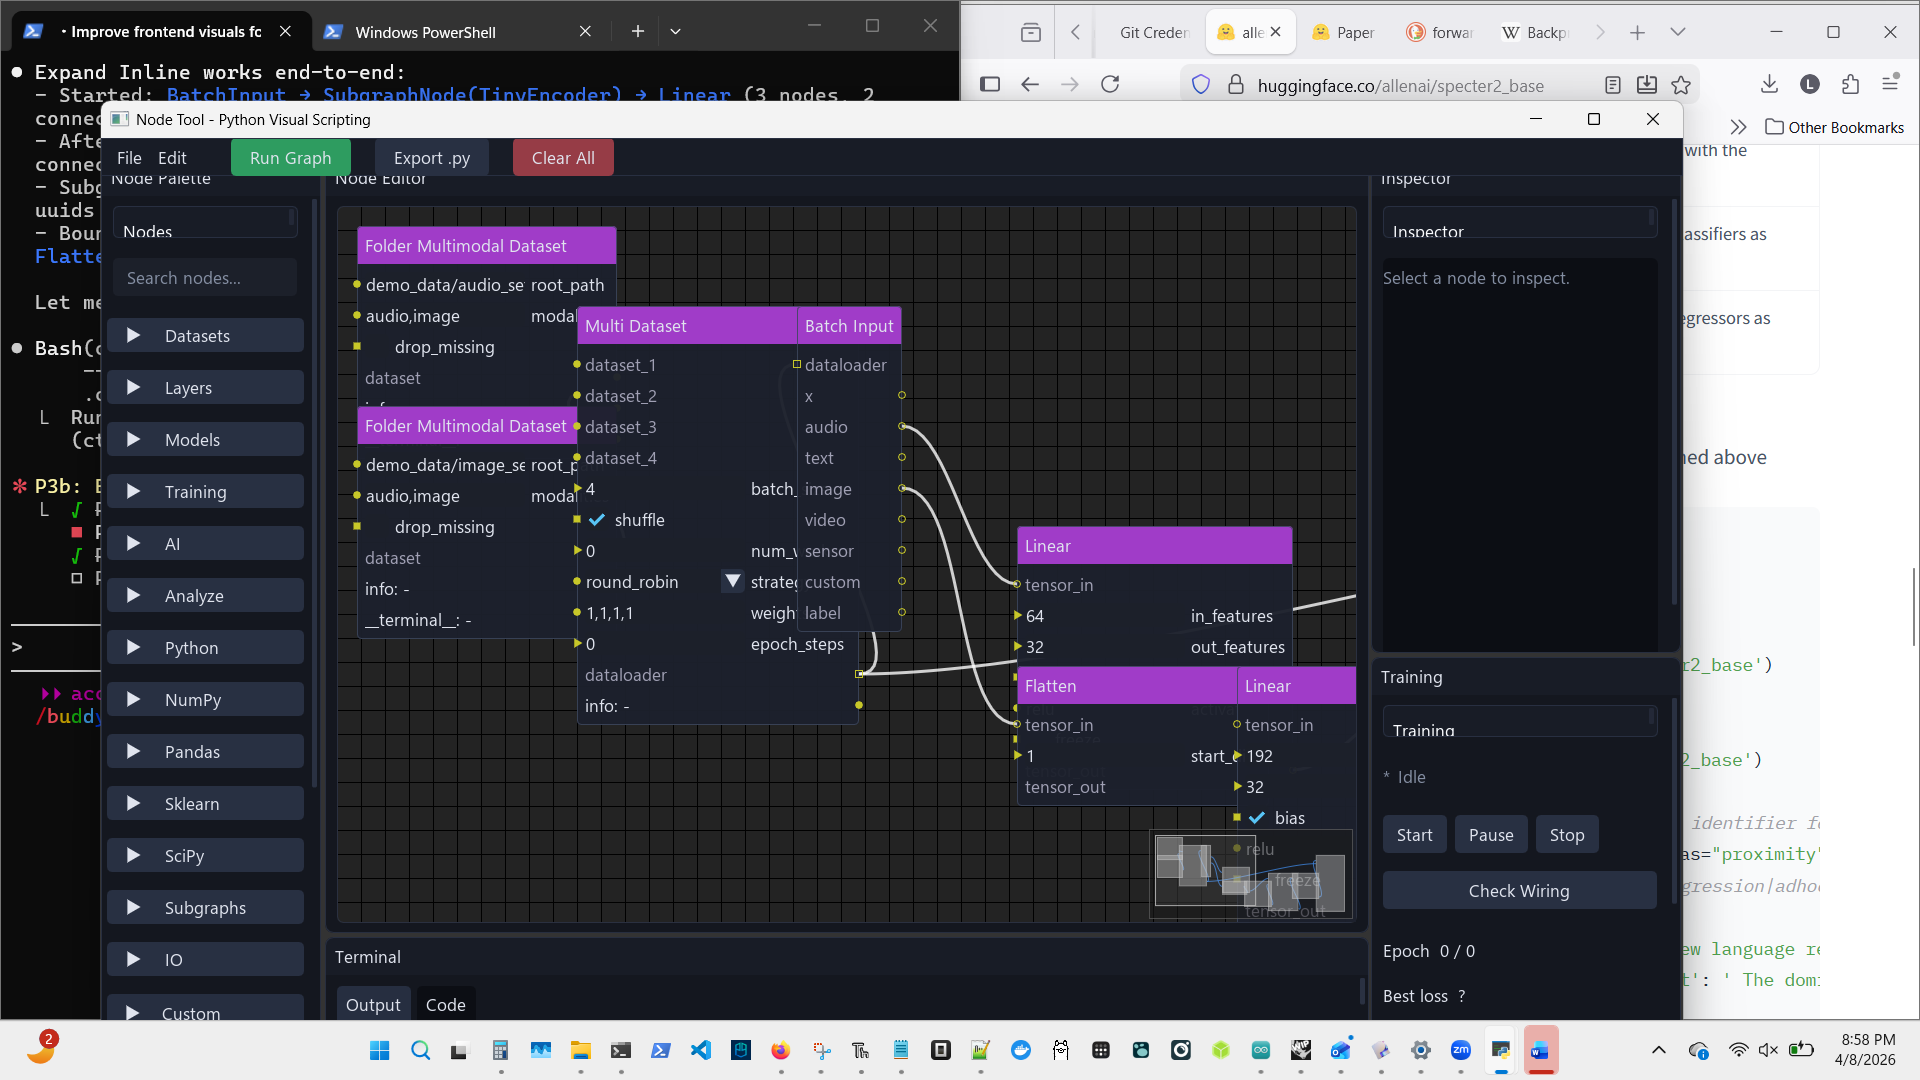
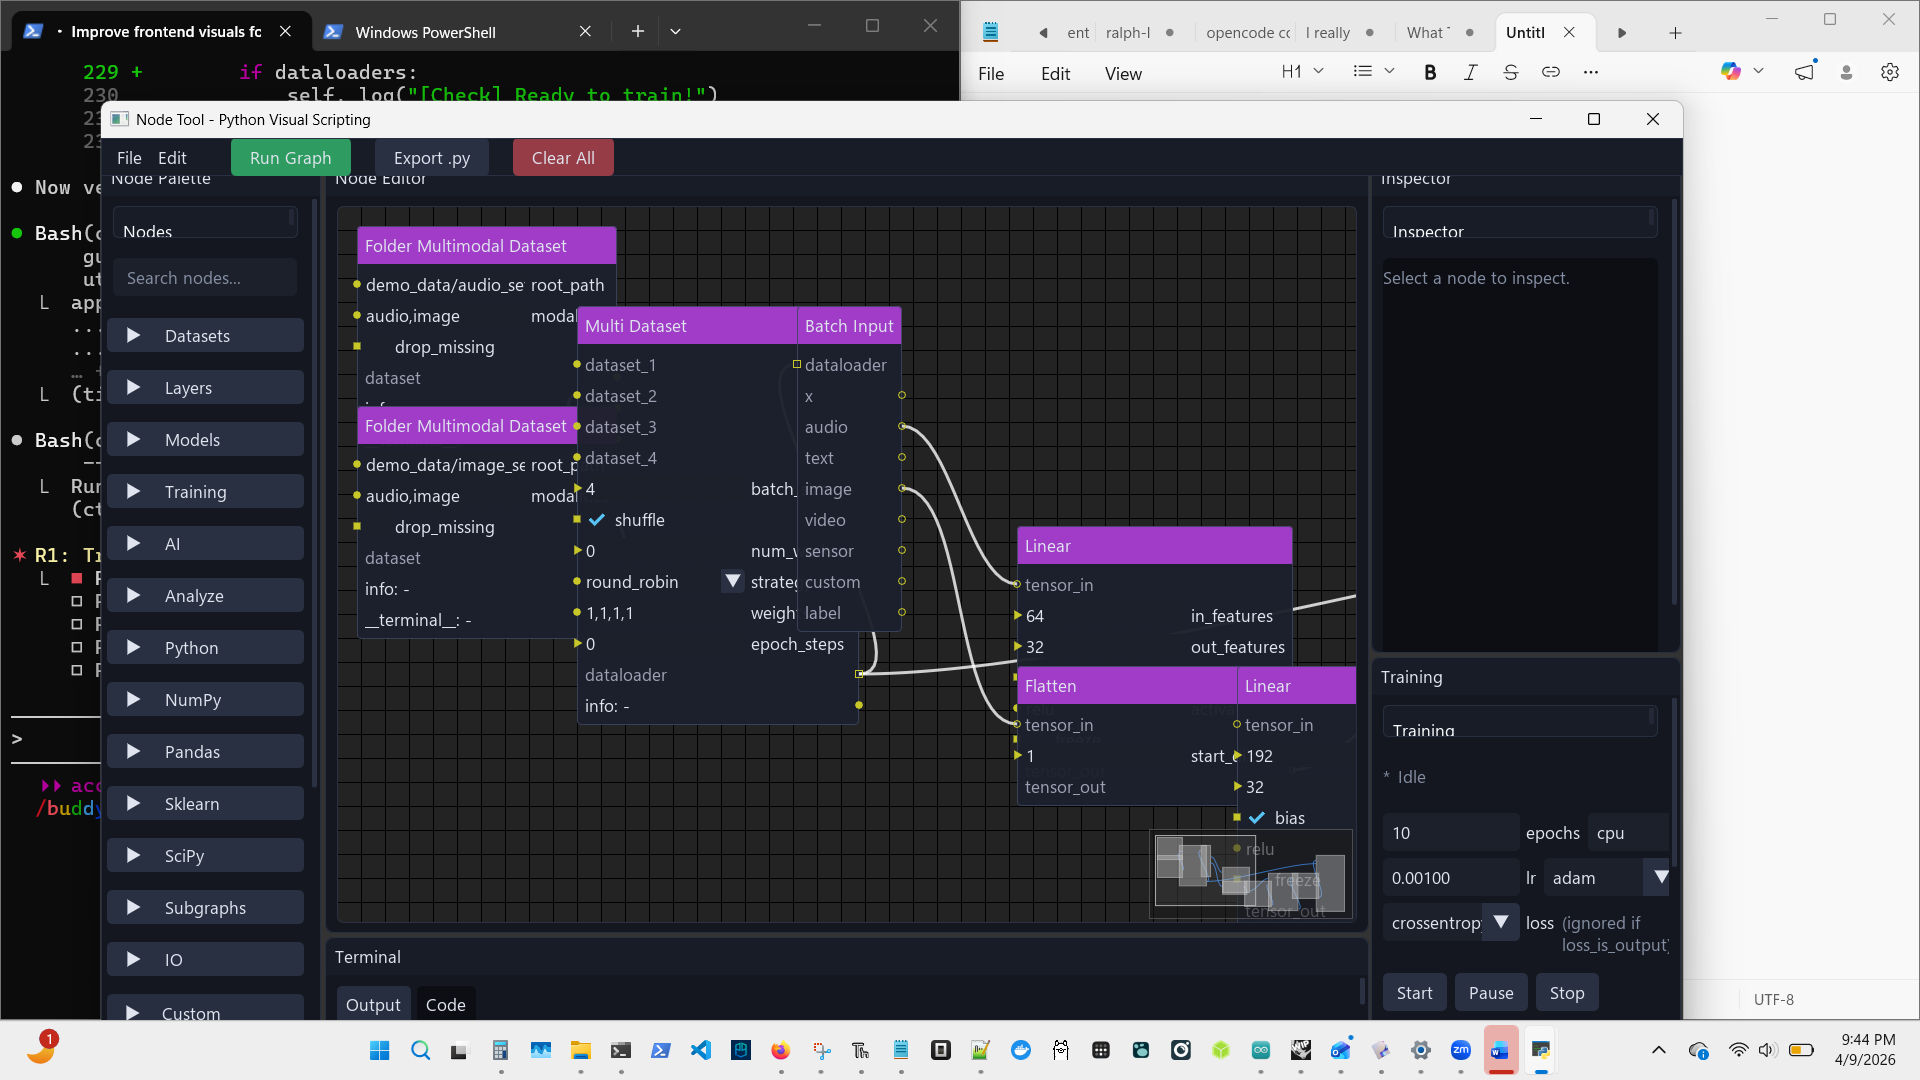
refactor: TrainOutputNode + training panel widgets + multi-task foundation
R1 of the architectural refactor toward multi-modal multi-task training.
Training hyperparameters move from TrainingConfigNode to the Training Panel
as persistent DPG widgets. TrainOutputNode replaces TrainingConfigNode as
the graph-side training target marker — multiple instances = multi-task.

## TrainOutputNode (nodes/pytorch/train_output.py)
Lightweight marker: tensor_in (TENSOR), loss_is_output (BOOL), task_name
(STRING). The Training Panel discovers these by graph scan.

## Training Panel widgets (gui/mixins/layout.py)
Epochs, LR, optimizer dropdown, device selector, loss type — all as DPG
widgets in the Training sidebar panel. No graph node needed for config.

## Training mixin rewrite (gui/mixins/training.py)
- _read_panel_config(): reads training params from panel widgets
- _find_train_outputs(): scans graph for TrainOutputNode + legacy compat
- _find_dataloaders(): auto-discovers DataLoader from any node output
- _train_start: uses panel params + graph scan instead of config node
- _train_check_wiring: reports Train Outputs + dataloaders found

## Also in this commit
- DPG empty-node width growth bug fix
- Multimodal classification template
- LoadModel/ClassModuleImport simplified to pure factories
- Nested subgraph docs + ReshapeForLoss/TensorReshape cross-refs
- Leaf-port promotion list expanded for better whole-graph packs

355 tests passing.

diff --git a/gui/mixins/training.py b/gui/mixins/training.py
@@ -30,14 +30,67 @@ def _set_train_status(label: str) -> None:
 class TrainingMixin:
     """Methods for collecting model layers, starting/stopping training, and saving the model."""
 
+    # ── Panel widget readers ──────────────────────────────────────────────
+
+    def _read_panel_config(self) -> dict:
+        """Read training hyperparameters from the panel's DPG widgets.
+
+        These used to live on TrainingConfigNode; now they're persistent panel
+        widgets. The graph only declares WHAT to optimize (via TrainOutputNode);
+        the panel declares HOW.
+        """
+        def _get(tag, fallback):
+            try:
+                return dpg.get_value(tag)
+            except Exception:
+                return fallback
+
+        return {
+            "epochs":         max(1, int(_get("train_epochs_input", 10))),
+            "lr":             float(_get("train_lr_input", 0.001)),
+            "optimizer_name": str(_get("train_optimizer_combo", "adam")),
+            "loss_name":      str(_get("train_loss_combo", "crossentropy")),
+            "device":         str(_get("train_device_combo", "cpu")),
+        }
+
+    def _find_train_outputs(self, outputs: dict) -> list[tuple[str, dict]]:
+        """Find all TrainOutputNode(s) in the graph that produced output."""
+        results = []
+        for node_id, node in self.graph.nodes.items():
+            if node.type_name in ("pt_train_output", "pt_training_config") \
+                    and node_id in outputs:
+                cfg = outputs[node_id].get("config")
+                if cfg is not None:
+                    results.append((node_id, cfg))
+        return results
+
+    def _find_dataloaders(self, outputs: dict) -> list:
+        """Auto-discover DataLoader objects from graph node outputs."""
+        from core.node import PortType
+        loaders = []
+        for node_id, node in self.graph.nodes.items():
+            for port_name, port in node.outputs.items():
+                if port.port_type == PortType.DATALOADER:
+                    val = outputs.get(node_id, {}).get(port_name)
+                    if val is not None:
+                        loaders.append(val)
+        return loaders
+
+    # ── Training start ─────────────────────────────────────────────────────
+
     def _train_start(self) -> None:
         """Wrap the graph as an nn.Module and start training.
 
+        New architecture: training hyperparameters come from panel widgets,
+        not from a TrainingConfigNode. The graph declares WHAT to optimize
+        (via TrainOutputNode); the panel declares HOW.
+
         Flow:
           1. Run the graph once (live preview) to lazy-init all layer modules
-          2. Find the training-config node (regular or multimodal)
-          3. Wrap the graph as GraphAsModule, targeting cfg.tensor_in as the output
-          4. Hand off to the background training thread
+          2. Find TrainOutputNode(s) + auto-discover DataLoader(s)
+          3. Read training params from panel widgets
+          4. Wrap graph as GraphAsModule targeting the TrainOutput's tensor_in
+          5. Hand off to the background training thread
         """
         from nodes.pytorch.training import _build_optimizer, _build_scheduler
         from core.graph_module import GraphAsModule
@@ -51,58 +104,72 @@ class TrainingMixin:
             self._log(f"[Train] Graph error: {exc}")
             return
 
-        # Find the training config node
-        cfg_node_id = None
-        config = None
-        for node_id, node in self.graph.nodes.items():
-            if node.type_name in ("pt_training_config", "pt_multimodal_training_config") \
-                    and node_id in outputs:
-                cfg_node_id = node_id
-                config = outputs[node_id].get("config")
-                break
-        if config is None:
-            self._log("[Train] No Training Config node found.")
+        # Find the training target (TrainOutputNode or legacy TrainingConfigNode)
+        train_outputs = self._find_train_outputs(outputs)
+        if not train_outputs:
+            self._log("[Train] No Train Output node found. Add one to mark the training target.")
             return
-        if config.get("dataloader") is None:
-            self._log("[Train] No dataloader connected to Training Config.")
+
+        # For now: use the first TrainOutput. Multi-task (multiple TrainOutputs)
+        # will be wired via the panel's task table in R4.
+        target_node_id, target_cfg = train_outputs[0]
+        loss_is_output = target_cfg.get("loss_is_output", False)
+
+        # Auto-discover dataloaders from the graph
+        dataloaders = self._find_dataloaders(outputs)
+        if not dataloaders:
+            # Fall back to legacy: check if TrainingConfigNode had a dataloader
+            dl_legacy = target_cfg.get("dataloader")
+            if dl_legacy is not None:
+                dataloaders = [dl_legacy]
+        if not dataloaders:
+            self._log("[Train] No dataloader found. Add a dataset node to the graph.")
             return
+        dataloader = dataloaders[0]
+
+        # Read training params from panel widgets
+        panel = self._read_panel_config()
 
         # The graph IS the model
         try:
-            model = GraphAsModule(self.graph, output_node_id=cfg_node_id, output_port="tensor_in")
+            model = GraphAsModule(self.graph, output_node_id=target_node_id,
+                                  output_port="tensor_in")
         except Exception as exc:
             self._log(f"[Train] Failed to wrap graph as module: {exc}")
             return
         n_params = sum(p.numel() for p in model.parameters())
         if n_params == 0:
-            self._log("[Train] Graph has no trainable layers upstream of Training Config.")
+            self._log("[Train] Graph has no trainable layers upstream of Train Output.")
             return
 
+        # Build optimizer from panel params
         optimizer = _build_optimizer(
-            config["optimizer_name"], model,
-            config["lr"], config["weight_decay"], config["momentum"],
+            panel["optimizer_name"], model,
+            panel["lr"], 0.0, 0.9,  # weight_decay, momentum use defaults
         )
-        scheduler = _build_scheduler(
-            config["scheduler_name"], optimizer,
-            config["step_size"], config["gamma"], config["T_max"],
-        )
+
+        # Build loss_fn from panel dropdown (used when loss_is_output=False)
+        from nodes.pytorch.training import _build_loss
+        loss_fn = _build_loss(panel["loss_name"]) if not loss_is_output else None
+
         full_config = {
             "model":          model,
             "optimizer":      optimizer,
-            "loss_fn":        config["loss_fn"],
-            "loss_is_output": config.get("loss_is_output", False),
-            "dataloader":     config["dataloader"],
-            "val_dataloader": config.get("val_dataloader"),
-            "scheduler":      scheduler,
-            "epochs":         config["epochs"],
-            "device":         config["device"],
-            "multimodal":      config.get("multimodal", False),
-            "freeze_strategy": config.get("freeze_strategy", "hard"),
-            "log_modalities":  config.get("log_modalities", True),
-            "graph_module":    True,   # tells the worker this is a GraphAsModule (dict input)
+            "loss_fn":        loss_fn,
+            "loss_is_output": loss_is_output,
+            "dataloader":     dataloader,
+            "val_dataloader": None,  # TODO: panel val_dataloader picker
+            "scheduler":      None,  # TODO: panel scheduler config
+            "epochs":         panel["epochs"],
+            "device":         panel["device"],
+            "multimodal":     False,
+            "freeze_strategy": "hard",
+            "log_modalities":  False,
+            "graph_module":    True,
         }
-        self._log(f"[Train] Starting: {config['epochs']} epochs on {config['device']}  "
-                  f"({n_params:,} params)")
+        task_name = target_cfg.get("task_name", "default")
+        self._log(f"[Train] Starting: {panel['epochs']} epochs on {panel['device']}  "
+                  f"({n_params:,} params, task={task_name!r})")
         self._training_ctrl.on_epoch_end = self.refresh_graph_silent
         self._training_ctrl.start(full_config)
         _set_train_status("Running")
@@ -121,39 +188,45 @@ class TrainingMixin:
         except Exception as exc:
             self._log(f"[Check] Graph error: {exc}")
             return
-        cfg_node_id = None
-        config = None
-        for node_id, node in self.graph.nodes.items():
-            if node.type_name in ("pt_training_config", "pt_multimodal_training_config") \
-                    and node_id in outputs:
-                cfg_node_id = node_id
-                config = outputs[node_id].get("config")
-                break
-        if config is None:
-            self._log("[Check] No Training Config node found.")
-            return
 
+        # Find targets
+        train_outputs = self._find_train_outputs(outputs)
+        if not train_outputs:
+            self._log("[Check] [x] No Train Output node found.")
+            return
+        self._log(f"[Check] [ok] {len(train_outputs)} Train Output(s) found")
+        for nid, cfg in train_outputs:
+            name = cfg.get("task_name", "?")
+            lio  = cfg.get("loss_is_output", False)
+            self._log(f"[Check]   - {name} (loss_is_output={lio})")
+
+        # First target for the model check
+        target_node_id = train_outputs[0][0]
         try:
-            model = GraphAsModule(self.graph, output_node_id=cfg_node_id, output_port="tensor_in")
+            model = GraphAsModule(self.graph, output_node_id=target_node_id,
+                                  output_port="tensor_in")
             n_params = sum(p.numel() for p in model.parameters())
             n_modules = len(model._layer_modules)
             if n_params == 0:
                 self._log("[Check] [x] No trainable layers in the graph.")
             else:
-                self._log(f"[Check] [ok] Graph model: {n_modules} layer nodes, {n_params:,} parameters")
+                self._log(f"[Check] [ok] Graph model: {n_modules} layer nodes, "
+                          f"{n_params:,} parameters")
         except Exception as exc:
             self._log(f"[Check] [x] Failed to wrap graph: {exc}")
             return
 
-        if config.get("dataloader") is not None:
-            self._log("[Check] [ok] dataloader connected")
+        # Dataloaders
+        dataloaders = self._find_dataloaders(outputs)
+        if dataloaders:
+            self._log(f"[Check] [ok] {len(dataloaders)} dataloader(s) found")
         else:
-            self._log("[Check] [x] dataloader not connected")
-        val_dl = config.get("val_dataloader")
-        self._log(f"[Check]   val_dataloader: {'connected' if val_dl else 'not connected (optional)'}")
-        self._log(f"[Check]   optimizer: {config.get('optimizer_name', '?')}  lr={config.get('lr', '?')}")
-        self._log(f"[Check]   loss: {config.get('loss_fn', '?').__class__.__name__}")
-        if config.get("dataloader") is not None:
+            self._log("[Check] [x] No dataloader found in the graph")
+
+        panel = self._read_panel_config()
+        self._log(f"[Check]   optimizer: {panel['optimizer_name']}  lr={panel['lr']}")
+        self._log(f"[Check]   epochs: {panel['epochs']}  device: {panel['device']}")
+        if dataloaders:
             self._log("[Check] Ready to train!")
 
     def _train_pause_resume(self) -> None:

diff --git a/gui/mixins/layout.py b/gui/mixins/layout.py
@@ -260,7 +260,33 @@ class LayoutMixin:
             with dpg.group(horizontal=True):
                 dpg.add_text("*", tag="train_status_dot", color=list(TEXT_DIM))
                 dpg.add_text("Idle", tag="train_status_text", color=list(TEXT_DIM))
-            dpg.add_spacer(height=6)
+            dpg.add_spacer(height=4)
+
+            # Training hyperparameters — these used to live on TrainingConfigNode;
+            # now they're panel widgets. The graph only declares WHAT to optimize
+            # (via TrainOutputNode); the panel declares HOW.
+            hw = (INSPECTOR_W - 36) // 2  # half-width for two-column layout
+            with dpg.group(horizontal=True):
+                dpg.add_input_int(label="epochs", tag="train_epochs_input",
+                                  default_value=10, width=hw, step=0, min_value=1)
+                dpg.add_combo(label="device", tag="train_device_combo",
+                              items=["cpu", "cuda", "cuda:0", "cuda:1"],
+                              default_value="cpu", width=hw)
+            with dpg.group(horizontal=True):
+                dpg.add_input_float(label="lr", tag="train_lr_input",
+                                    default_value=0.001, width=hw, step=0,
+                                    format="%.5f")
+                dpg.add_combo(label="optim", tag="train_optimizer_combo",
+                              items=["adam", "adamw", "sgd", "rmsprop"],
+                              default_value="adam", width=hw)
+            with dpg.group(horizontal=True):
+                dpg.add_combo(label="loss", tag="train_loss_combo",
+                              items=["crossentropy", "mse", "bce",
+                                     "bcewithlogits", "l1"],
+                              default_value="crossentropy", width=hw)
+                dpg.add_text("(ignored if\nloss_is_output)", color=list(TEXT_DIM))
+
+            dpg.add_spacer(height=4)
             with dpg.group(horizontal=True):
                 dpg.add_button(label=" Start ", tag="train_start_btn",
                                callback=lambda: self._train_start())
@@ -271,17 +297,17 @@ class LayoutMixin:
             dpg.add_spacer(height=4)
             dpg.add_button(label="Check Wiring", width=-1,
                            callback=lambda: self._train_check_wiring())
-            dpg.add_spacer(height=8)
+            dpg.add_spacer(height=6)
             dpg.add_text("Epoch  0 / 0", tag="train_epoch_text", color=list(TEXT))
             dpg.add_text("Best loss  —", tag="train_loss_text",  color=list(TEXT))
-            dpg.add_spacer(height=6)
-            with dpg.plot(label="Loss", height=150, width=-1, tag="loss_plot"):
+            dpg.add_spacer(height=4)
+            with dpg.plot(label="Loss", height=120, width=-1, tag="loss_plot"):
                 dpg.add_plot_legend()
                 dpg.add_plot_axis(dpg.mvXAxis, label="epoch", tag="loss_x_axis")
                 with dpg.plot_axis(dpg.mvYAxis, label="loss", tag="loss_y_axis"):
                     dpg.add_line_series([], [], label="train", tag="loss_series")
                     dpg.add_line_series([], [], label="val",   tag="val_loss_series")
-            dpg.add_spacer(height=6)
+            dpg.add_spacer(height=4)
             dpg.add_button(label="Save Model", tag="save_model_btn", width=-1,
                            callback=lambda: self._save_model())
 

diff --git a/nodes/pytorch/train_output.py b/nodes/pytorch/train_output.py
@@ -1,0 +1,63 @@
+"""TrainOutputNode — lightweight marker for the training target.
+
+The graph-side half of the training system. Marks a tensor as the training
+target (either model logits or a pre-computed scalar loss). The Training Panel
+discovers TrainOutput nodes by scanning the graph, reads the tensor during
+training, and computes the optimizer step.
+
+Multiple TrainOutput nodes in one graph = multi-task training. The panel maps
+each one to a dataset and alternates/combines as configured.
+
+This replaces TrainingConfigNode: hyperparameters (epochs, lr, optimizer,
+device) move to the Training Panel as persistent UI widgets. The graph only
+declares WHAT to optimize; the panel declares HOW.
+"""
+from __future__ import annotations
+from typing import Any
+from core.node import BaseNode, PortType
+
+
+class TrainOutputNode(BaseNode):
+    type_name   = "pt_train_output"
+    label       = "Train Output"
+    category    = "Training"
+    subcategory = "Config"
+    description = (
+        "Mark a tensor as the training target. Wire model logits or a "
+        "pre-computed loss here. The Training Panel discovers this node and "
+        "uses its input as the optimization target. For multi-task: add "
+        "one Train Output per task; the panel maps each to a dataset."
+    )
+
+    def _setup_ports(self) -> None:
+        self.add_input("tensor_in", PortType.TENSOR, default=None,
+                       description="Model output (logits) or scalar loss tensor")
+        self.add_input("loss_is_output", PortType.BOOL, default=False,
+                       description="If True, tensor_in is already a scalar loss; "
+                                   "skip loss_fn in the training loop")
+        self.add_input("task_name", PortType.STRING, default="",
+                       description="Optional label shown in the panel's task table "
+                                   "(auto-generated from the node label if empty)")
+        self.add_output("config", PortType.ANY,
+                        description="Pass-through for backward compat with "
+                                    "GraphAsModule output targeting")
+
+    def execute(self, inputs: dict[str, Any]) -> dict[str, Any]:
+        # Pass through the tensor + flags so GraphAsModule can read them
+        return {
+            "config": {
+                "tensor_in":      inputs.get("tensor_in"),
+                "loss_is_output": bool(inputs.get("loss_is_output", False)),
+                "task_name":      str(inputs.get("task_name") or self.label),
+            },
+        }
+
+    def export(self, iv, ov):
+        tin = iv.get("tensor_in") or "None  # TODO: connect model output or loss"
+        lio = bool(self.inputs["loss_is_output"].default_value)
+        name = self.inputs["task_name"].default_value or "default"
+        out = ov.get("config", "_train_output")
+        return [], [
+            f"# Train Output: {name!r} (loss_is_output={lio})",
+            f"{out} = {tin}  # training target",
+        ]

diff --git a/nodes/pytorch/__init__.py b/nodes/pytorch/__init__.py
@@ -121,6 +121,7 @@ from nodes.pytorch.save_full_model import SaveFullModelNode
 from nodes.pytorch.pretrained_block import PretrainedBlockNode
 from nodes.pytorch.load_model import LoadModelNode
 from nodes.pytorch.apply_module import ApplyModuleNode
+from nodes.pytorch.train_output import TrainOutputNode
 from nodes.pytorch.class_module_import import ClassModuleImportNode
 from nodes.pytorch.model_info_persist import ModelInfoPersistNode
 
